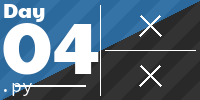
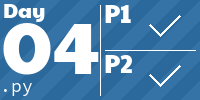
Day 4

diff --git a/README.md b/README.md
@@ -7,7 +7,7 @@ My solutions for [Advent of Code](https://adventofcode.com/2022) in 2022. Probab
 
 <!-- AOC TILES BEGIN -->
 <h1 align="center">
-  2022 - 6 ⭐
+  2022 - 8 ⭐
 </h1>
 <a href="solutions/day01.py">
   <img src="Media/2022/01.png" width="161px">
